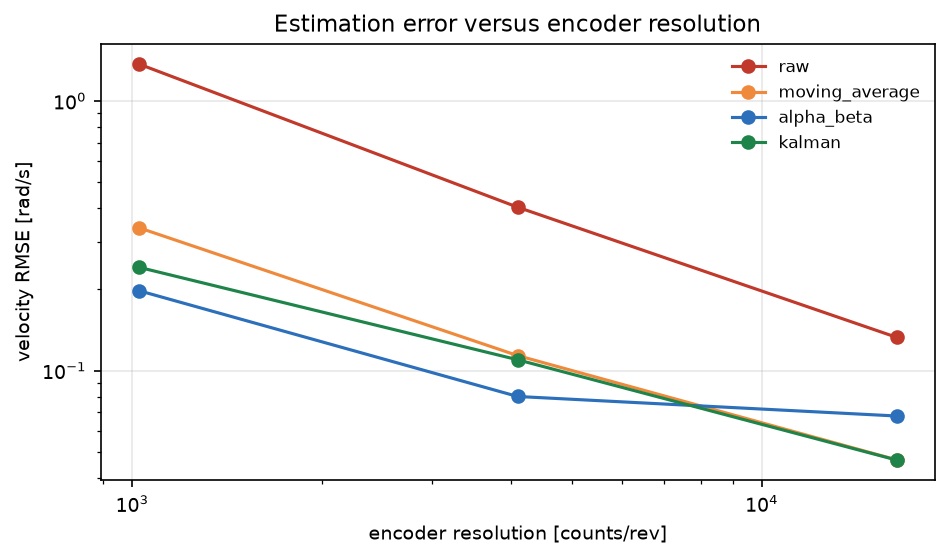
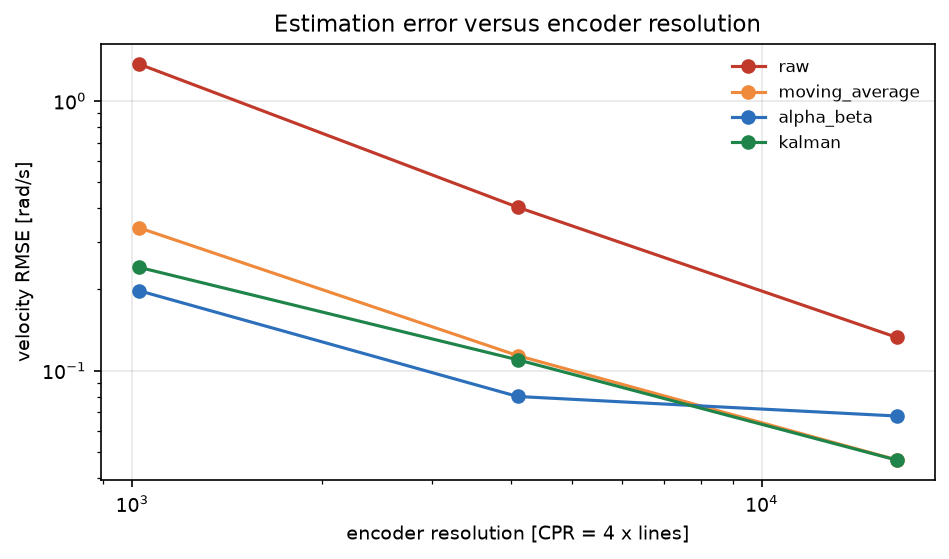
docs(ground): clarify that CPR means quadrature-decoded counts
- README and docs state CPR = 4 x lines per revolution, with the 1024/4096 mapping
- resolution_sweep x-axis label is now "encoder resolution [CPR = 4 x lines]"

Changed region(s): [[0.3667, 0.9428, 0.7334, 0.9732]]

diff --git a/src/ground/encoder_quantization_velocity/encoder_quantization_velocity/plotting.py b/src/ground/encoder_quantization_velocity/encoder_quantization_velocity/plotting.py
@@ -66,7 +66,7 @@ def plot_resolution(summary, output_path) -> None:
                         ("alpha_beta", "#2c6fbb"), ("kalman", "#1e8449")):
         errors = [summary["resolutions"][str(value)][name]["rmse_rad_s"] for value in resolutions]
         ax.loglog(resolutions, errors, "o-", color=color, label=name)
-    ax.set_xlabel("encoder resolution [counts/rev]")
+    ax.set_xlabel("encoder resolution [CPR = 4 x lines]")
     ax.set_ylabel("velocity RMSE [rad/s]")
     ax.set_title("Estimation error versus encoder resolution")
     ax.legend(frameon=False, fontsize=8)

diff --git a/docs/ground/encoder_quantization_velocity.md b/docs/ground/encoder_quantization_velocity.md
@@ -28,6 +28,8 @@ $$
 量化误差 $\pm\Delta/2$ 除以 $dt=1$ ms 后放大 1000 倍，得到速度误差量级
 $\Delta/dt$：1024 CPR 时约 6.1 rad/s，4096 CPR 时约 1.5 rad/s。
 
+> **口径**：表中 CPR 指**四倍频（quadrature ×4）解码后的计数/转**，不是编码器线数：若按线数选型，1024 线对应 4096 CPR、4096 线对应 16384 CPR。量化步长 Δ = 2π/CPR，与 `EncoderSpec.step_rad` 一致。
+
 ### 1.2 三种滤波
 
 - **滑动平均**：对最近 $N=5$ 个差分值取平均，噪声降 $\sqrt5$ 倍，代价 $2$ ms 延迟；

diff --git a/src/ground/encoder_quantization_velocity/README.md b/src/ground/encoder_quantization_velocity/README.md
@@ -44,4 +44,6 @@ python3 -m unittest discover -s tests -v
 
 （单位 rad/s；延迟分别为 0 / 2 / 3 / 2–12 ms）
 
+表中 CPR 指**四倍频（quadrature ×4）解码后的计数/转**，不是编码器线数：若按线数选型，1024 线对应 4096 CPR、4096 线对应 16384 CPR。量化步长 Δ = 2π/CPR，与 `EncoderSpec.step_rad` 一致。
+
 详见 `docs/ground/encoder_quantization_velocity.md`。
